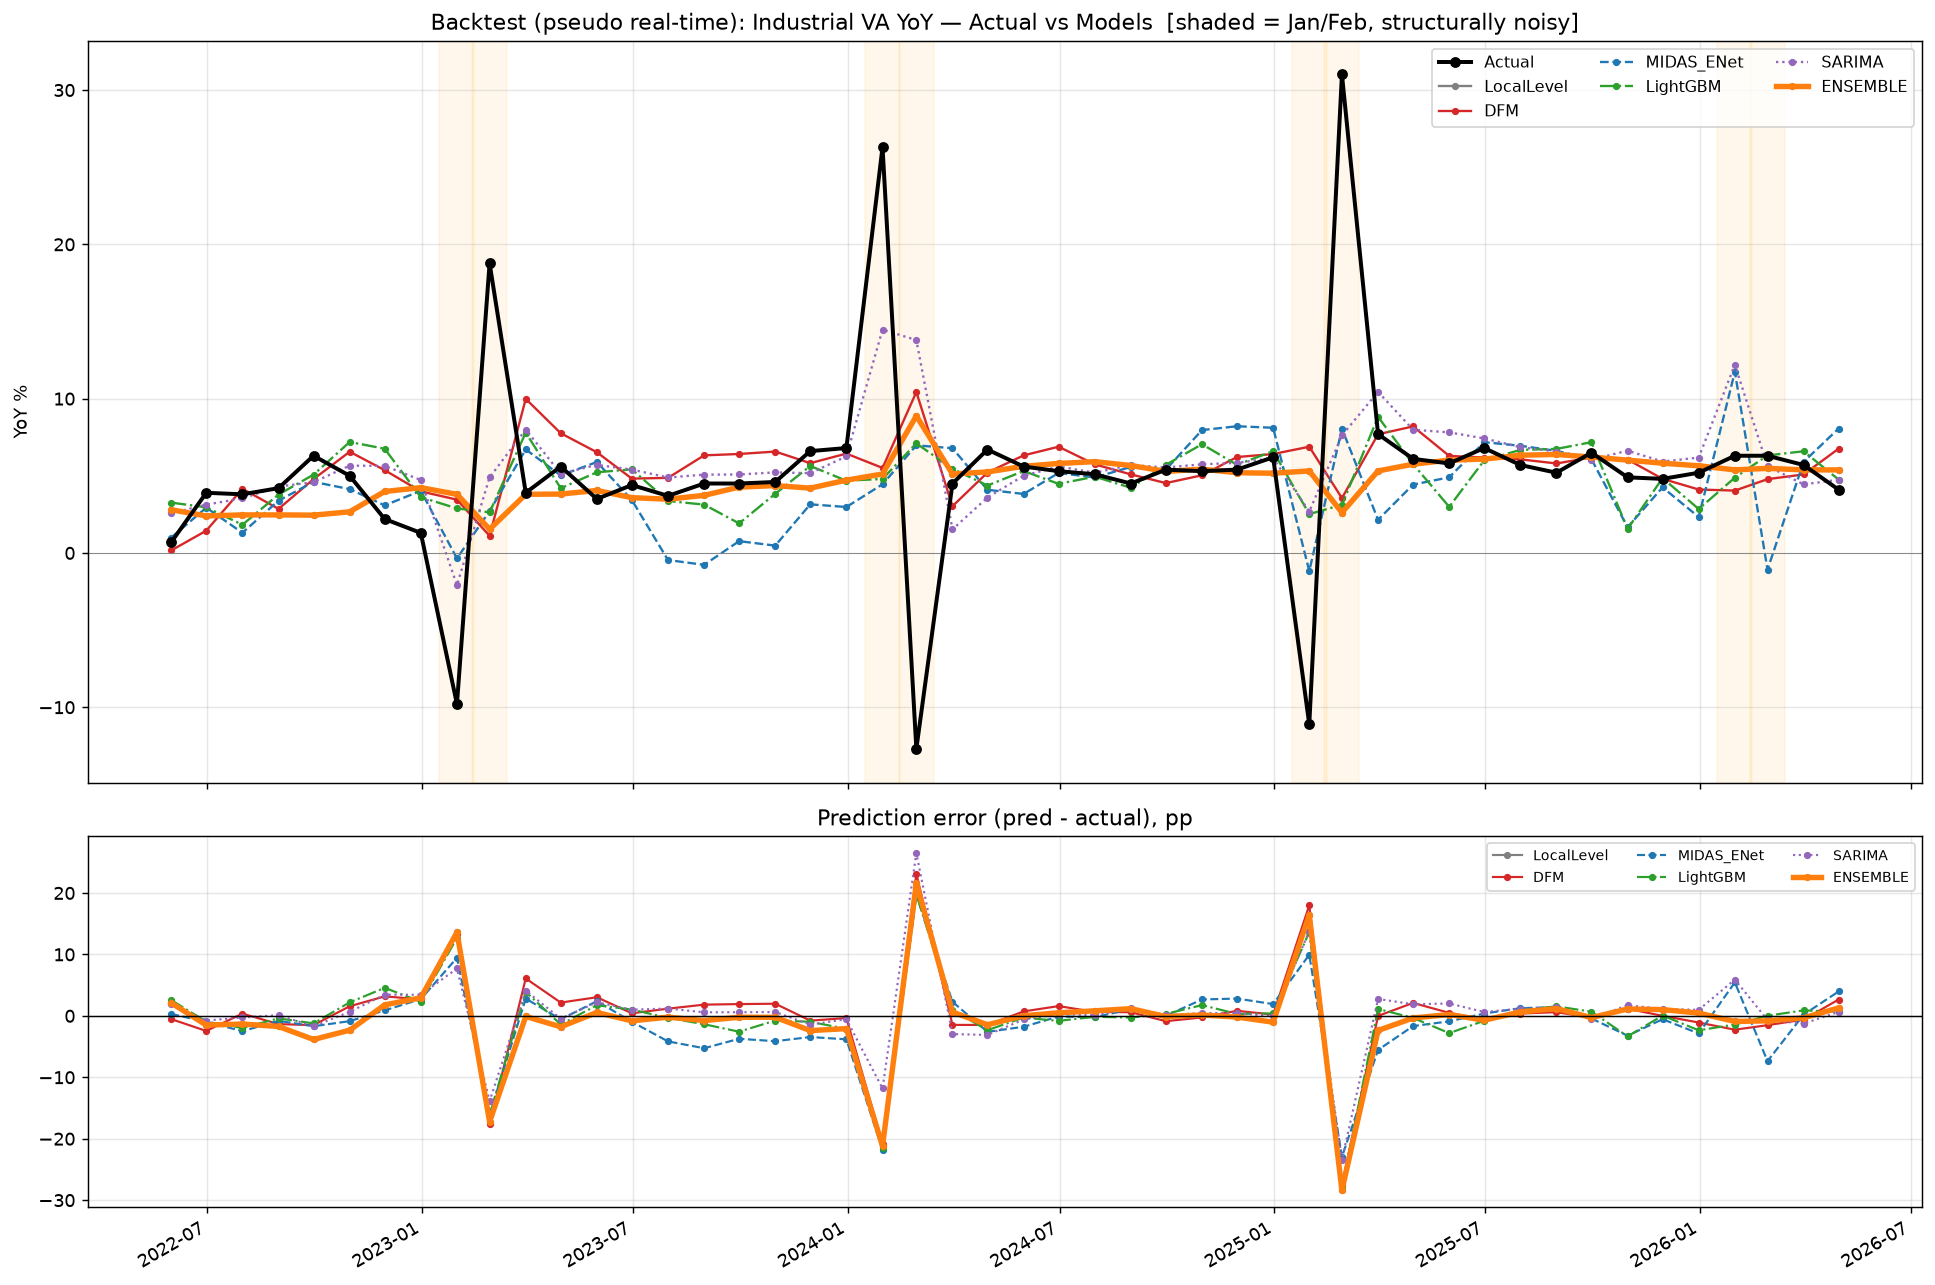
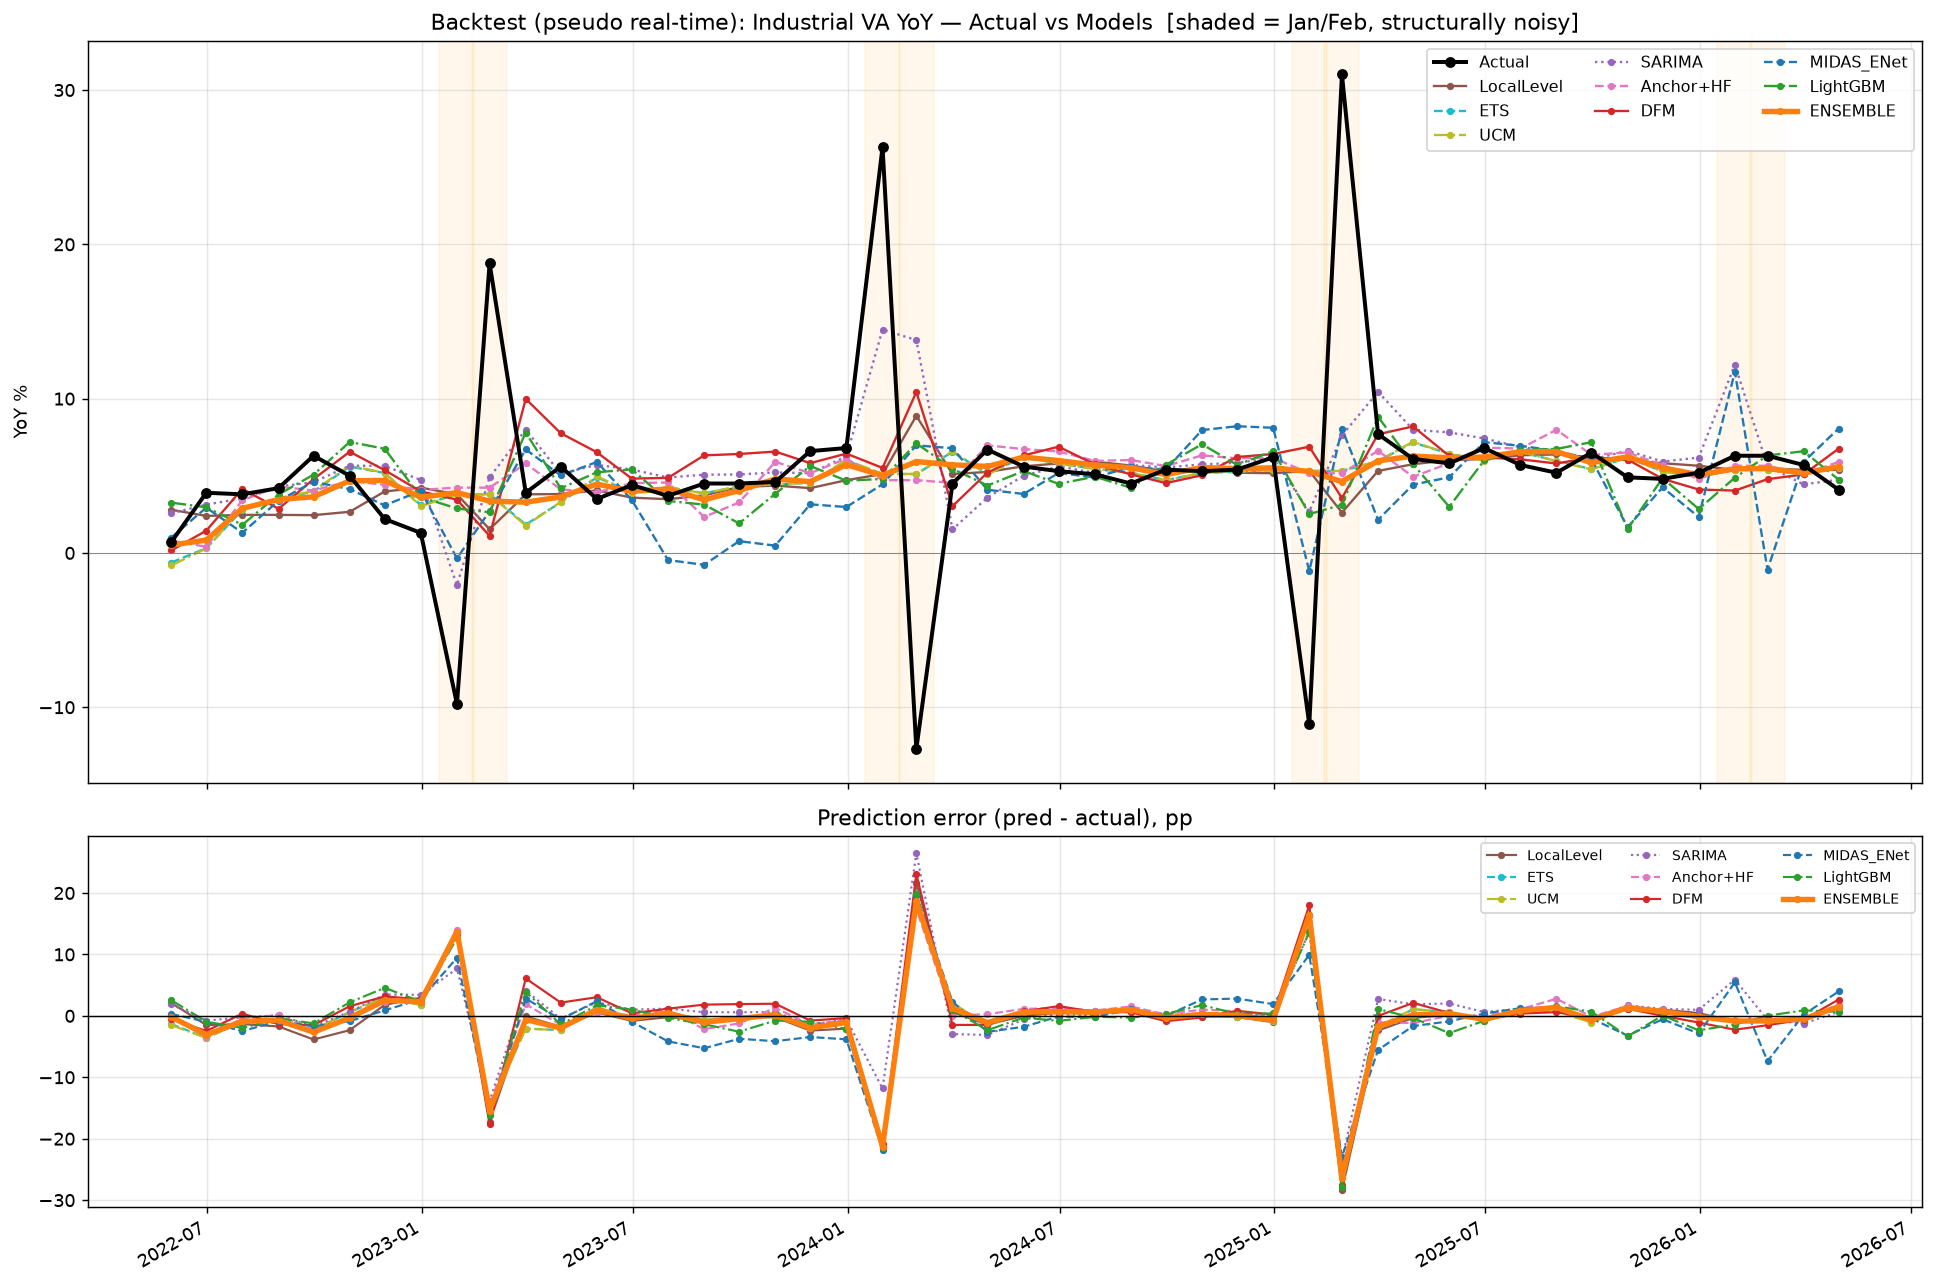
新增更适合低信噪比目标的模型:ETS/UCM/Anchor+HF
针对"目标信噪比低、需锚定近期水平"的结构,新增3个局部水平家族模型:
- ETS: 阻尼趋势指数平滑(对非1-2月子序列),比粗糙trailing-mean更平滑权衡近期
- UCM: 不可观测分量(局部水平),信号方差MLE自适应,弱信号时自动退化为常数均值
- Anchor+HF: 以近期水平为锚,高频仅做重收缩Ridge边际修正(检验高频在水平之上的增量价值)
均对非1-2月子序列建模,1-2月退化为锚。

DM门控结果(48月,剔1-2月):ETS/UCM/Anchor+HF三者RMSE均略低于基准(DM<0但不显著),
通过门控并入组合;SARIMA/DFM/LGB/MIDAS仍被剔除(高频不创造增量)。
组合(4个局部水平模型)RMSE 1.386->1.208(降13%),MAE 1.069->0.957,偏差-0.243->-0.101。
最新5月预测 5.20->4.79(实际4.5,误差0.70->0.29),区间更窄且覆盖。

Claude-Session: https://claude.ai/code/session_01Lyk2ycG3dbMTHNTX5YaMUQ

diff --git a/industrial_va_forecast.py b/industrial_va_forecast.py
@@ -974,8 +974,186 @@ class ModelSARIMA(BaseModel):
             return None
 
 
+def _target_history(ctx, as_of, target_month, drop_janfeb=True):
+    """取 as_of 可见的目标历史（到 T-1）。drop_janfeb=True 则剔除 1-2 月。"""
+    panel = ctx.aligner.build_monthly_panel(as_of)
+    if "IVA_yoy" not in panel.columns:
+        return None
+    y = panel["IVA_yoy"].dropna()
+    y = y.loc[:target_month]
+    if target_month in y.index:
+        y = y.drop(target_month)
+    if drop_janfeb:
+        y = y[~y.index.month.isin([1, 2])]
+    return y
+
+
+def _gauss_interval(out: Prediction, point, sigma, cfg):
+    from scipy.stats import norm
+    out.sigma = sigma
+    if sigma is not None and np.isfinite(sigma) and sigma > 0:
+        for lv in cfg.interval_levels:
+            z = norm.ppf(0.5 + lv / 2)
+            out.lower[lv] = point - z * sigma
+            out.upper[lv] = point + z * sigma
+
+
 # ------------------------------------------------------------------------------
-# 8.5  局部水平基准（必须被超越的零智商基准）
+# 8.5  ETS（阻尼指数平滑）——局部水平/趋势的统计正规版
+# ------------------------------------------------------------------------------
+class ModelETS(BaseModel):
+    """对【非1-2月】目标子序列做阻尼趋势指数平滑(Holt damped)。比粗糙 trailing-mean
+    更平滑地权衡近期信息；1-2月退化为近期均值。"""
+    name = "ETS"
+
+    def __init__(self, cfg: Config):
+        self.cfg = cfg
+
+    def predict_asof(self, target_month, as_of, ctx) -> Optional[Prediction]:
+        from statsmodels.tsa.holtwinters import ExponentialSmoothing
+        cfg = self.cfg
+        ynf = _target_history(ctx, as_of, target_month, drop_janfeb=True)
+        if ynf is None or len(ynf) < 24:
+            return None
+        vals = ynf.values.astype(float)
+        try:
+            if target_month.month in (1, 2):
+                point = float(ynf.tail(cfg.locallevel_k).mean())
+                sigma = float(ynf.tail(cfg.locallevel_k).std(ddof=1))
+            else:
+                res = ExponentialSmoothing(
+                    vals, trend="add", damped_trend=True,
+                    initialization_method="estimated").fit()
+                point = float(np.asarray(res.forecast(1))[0])
+                sigma = float(np.std(vals - res.fittedvalues, ddof=1))
+            out = Prediction(point=point)
+            _gauss_interval(out, point, sigma, cfg)
+            return out
+        except Exception as e:
+            LOG.warning("ETS 在 %s 失败：%s", target_month.date(), e)
+            return None
+
+
+# ------------------------------------------------------------------------------
+# 8.6  UCM（不可观测分量/结构时序）——状态空间局部水平，信号方差 MLE 自适应
+# ------------------------------------------------------------------------------
+class ModelUCM(BaseModel):
+    """对【非1-2月】子序列拟合 UnobservedComponents(局部水平)。若信号方差被估为≈0，
+    模型自动退化为常数均值(=最稳)；否则适度跟踪近期水平。1-2月退化为近期均值。"""
+    name = "UCM"
+
+    def __init__(self, cfg: Config):
+        self.cfg = cfg
+
+    def predict_asof(self, target_month, as_of, ctx) -> Optional[Prediction]:
+        from statsmodels.tsa.statespace.structural import UnobservedComponents
+        cfg = self.cfg
+        ynf = _target_history(ctx, as_of, target_month, drop_janfeb=True)
+        if ynf is None or len(ynf) < 24:
+            return None
+        vals = ynf.values.astype(float)
+        try:
+            if target_month.month in (1, 2):
+                point = float(ynf.tail(cfg.locallevel_k).mean())
+                sigma = float(ynf.tail(cfg.locallevel_k).std(ddof=1))
+            else:
+                res = UnobservedComponents(
+                    vals, level="local level").fit(disp=False, maxiter=200)
+                fc = res.get_forecast(1)
+                point = float(np.asarray(fc.predicted_mean)[0])
+                sigma = float(np.sqrt(np.asarray(fc.var_pred_mean)[0]))
+            out = Prediction(point=point)
+            _gauss_interval(out, point, sigma, cfg)
+            return out
+        except Exception as e:
+            LOG.warning("UCM 在 %s 失败：%s", target_month.date(), e)
+            return None
+
+
+# ------------------------------------------------------------------------------
+# 8.7  Anchor+HF（锚定近期水平 + 高频重收缩边际修正）
+# ------------------------------------------------------------------------------
+class ModelAnchoredCorrection(BaseModel):
+    """以"近期非1-2月均值"为锚，仅让高频做【重度收缩】的边际修正：
+        预测 = 锚 + clip( Ridge(高频特征 -> (目标-锚)残差) )。
+    直接检验"高频在水平之上是否还有增量价值"——比让高频模型单打独斗更公平、更强。
+    1-2月退化为锚本身。"""
+    name = "Anchor+HF"
+
+    def __init__(self, cfg: Config):
+        self.cfg = cfg
+
+    def predict_asof(self, target_month, as_of, ctx) -> Optional[Prediction]:
+        from sklearn.linear_model import RidgeCV
+        from sklearn.preprocessing import StandardScaler
+        cfg = self.cfg
+        feat = ctx.realtime_feature_matrix()
+        if target_month not in feat.index:
+            return None
+        ytar = feat["__target__"]
+        nf_mask = ~feat.index.month.isin([1, 2])
+        ynf = ytar[nf_mask]
+        anchor = ynf.shift(1).rolling(cfg.locallevel_k, min_periods=3).mean()
+        anchor = anchor.reindex(feat.index).ffill()   # 1-2月用最近一期锚
+        anchor_T = anchor.loc[target_month]
+        if not np.isfinite(anchor_T):
+            return None
+        if target_month.month in (1, 2):
+            out = Prediction(point=float(anchor_T))
+            _gauss_interval(out, float(anchor_T),
+                            float(ynf.tail(cfg.locallevel_k).std(ddof=1)), cfg)
+            return out
+
+        resid = ytar - anchor
+        train_idx = feat.index[(feat.index < target_month) & nf_mask
+                               & resid.notna() & anchor.notna()]
+        if len(train_idx) > cfg.max_train_months:
+            train_idx = train_idx[-cfg.max_train_months:]
+        if len(train_idx) < 30:
+            return None
+        test_row = feat.loc[target_month]
+        Xtr_raw = feat.loc[train_idx]
+        rtar = resid.loc[train_idx]
+        min_cov = max(24, len(train_idx) // 3)
+        cand = [c for c in feat.columns if c != "__target__"
+                and pd.notna(test_row[c]) and Xtr_raw[c].notna().sum() >= min_cov]
+        corr = {}
+        for c in cand:
+            v = Xtr_raw[c]
+            m = v.notna() & rtar.notna()
+            if m.sum() >= 24 and v[m].std() > 1e-9:
+                corr[c] = abs(np.corrcoef(v[m], rtar[m])[0, 1])
+        top = [c for c, _ in sorted(corr.items(), key=lambda kv: kv[1],
+                                    reverse=True)[:cfg.midas_topk_features]]
+        if len(top) < 3:
+            out = Prediction(point=float(anchor_T))
+            _gauss_interval(out, float(anchor_T), float(rtar.std(ddof=1)), cfg)
+            return out
+        try:
+            med = Xtr_raw[top].median()
+            Xtr = Xtr_raw[top].fillna(med).fillna(0.0)
+            Xte = feat.loc[[target_month], top].fillna(med).fillna(0.0)
+            sc = StandardScaler()
+            Xtr_s = sc.fit_transform(Xtr.values)
+            Xte_s = sc.transform(Xte.values)
+            ytr = rtar.values
+            ridge = RidgeCV(alphas=[1.0, 10.0, 100.0, 1000.0, 1e4])
+            ridge.fit(Xtr_s, ytr)
+            corr_pred = float(np.clip(ridge.predict(Xte_s)[0], -2.0, 2.0))
+            point = float(anchor_T) + corr_pred
+            sigma = float(np.std(ytr - ridge.predict(Xtr_s), ddof=1))
+            out = Prediction(point=point)
+            _gauss_interval(out, point, sigma, cfg)
+            out.extra["anchor"] = round(float(anchor_T), 3)
+            out.extra["hf_correction"] = round(corr_pred, 3)
+            return out
+        except Exception as e:
+            LOG.warning("Anchor+HF 在 %s 失败：%s", target_month.date(), e)
+            return None
+
+
+# ------------------------------------------------------------------------------
+# 8.8  局部水平基准（必须被超越的零智商基准）
 # ------------------------------------------------------------------------------
 class ModelLocalLevel(BaseModel):
     """局部水平基准：预测 = 最近 K 个【非1-2月】已发布目标值的均值。
@@ -1487,6 +1665,8 @@ class Reporter:
             return
         styles = {"DFM": ("#d62728", "-"), "MIDAS_ENet": ("#1f77b4", "--"),
                   "LightGBM": ("#2ca02c", "-."), "SARIMA": ("#9467bd", ":"),
+                  "LocalLevel": ("#8c564b", "-"), "ETS": ("#17becf", "--"),
+                  "UCM": ("#bcbd22", "-."), "Anchor+HF": ("#e377c2", "--"),
                   "ENSEMBLE": ("#ff7f0e", "-")}
         fig, axes = plt.subplots(2, 1, figsize=(15, 10),
                                  gridspec_kw={"height_ratios": [2, 1]})
@@ -1687,10 +1867,13 @@ def main(cfg: Config = CFG):
     # 3) 模型集合
     models = [
         ModelLocalLevel(cfg),   # 基准/锚：必须被复杂模型显著超越
+        ModelETS(cfg),
+        ModelUCM(cfg),
+        ModelSARIMA(cfg),
+        ModelAnchoredCorrection(cfg),
         ModelDFM(cfg, indicators),
         ModelMIDAS(cfg),
         ModelLGB(cfg),
-        ModelSARIMA(cfg),
     ]
     model_names = [m.name for m in models]
 
